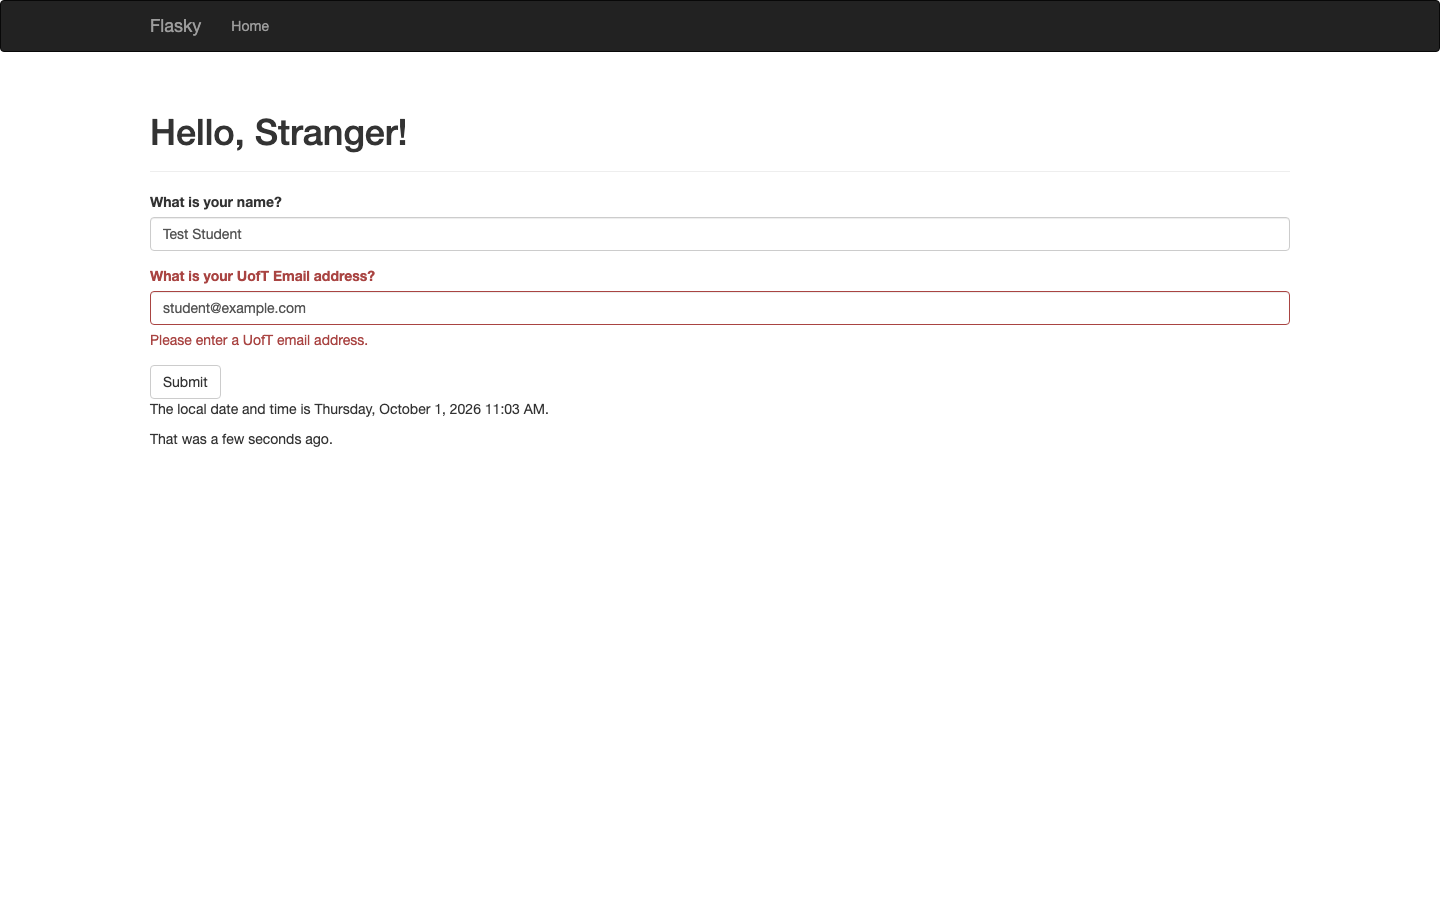
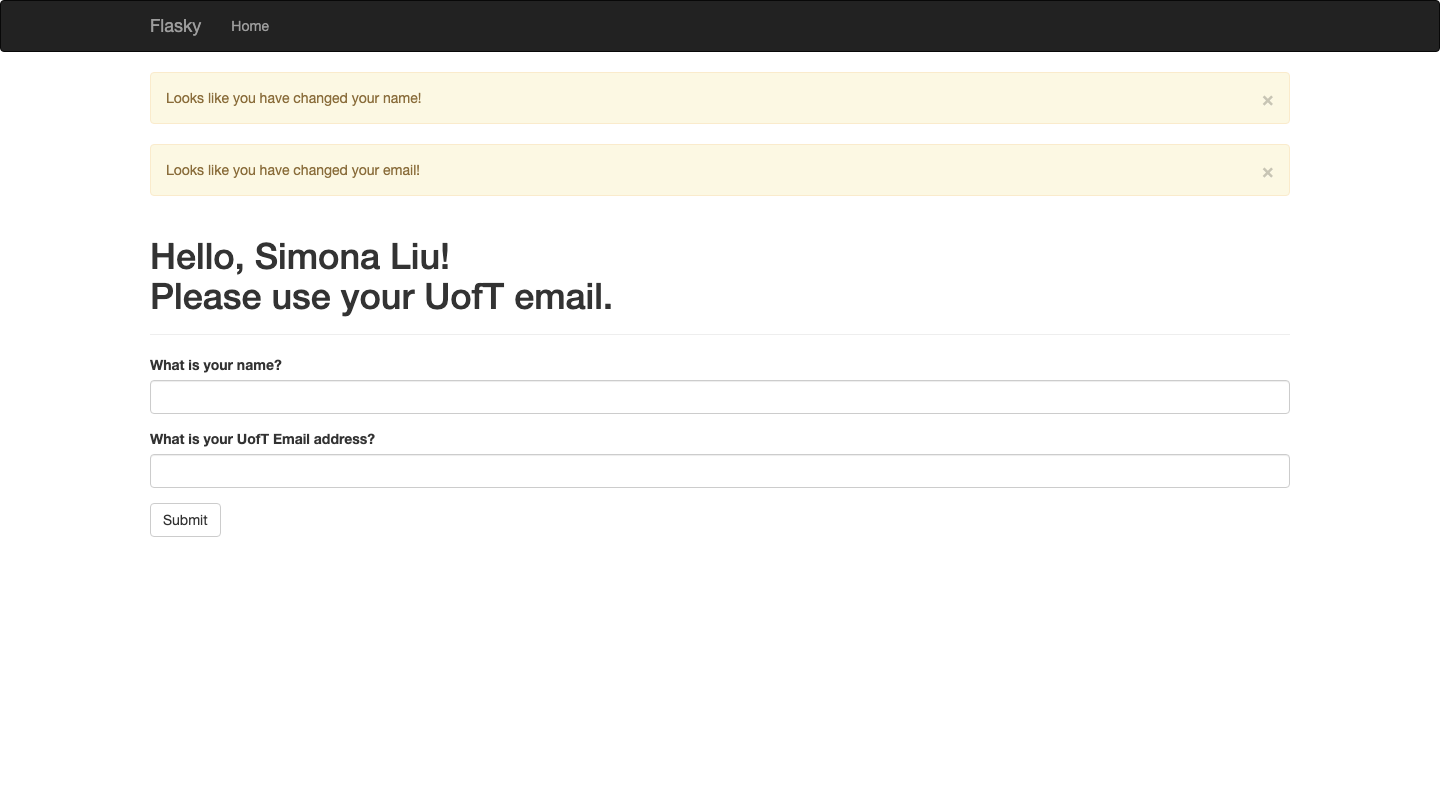
Activity 1.4: match expected change-alert behavior

Changed region(s): [[0.0, 0.0, 1.0, 0.5], [0.0938, 0.5312, 0.25, 0.5625], [0.0938, 0.625, 0.1562, 0.6562]]

diff --git a/templates/index.html b/templates/index.html
@@ -7,10 +7,14 @@
 <div class="page-header">
     <h1>
         Hello{% if name %}, {{ name }}{% else %}, Stranger{% endif %}!
-        {% if email %}<br>Your UofT email is {{ email }}{% endif %}
+        {% if email %}
+            {% if is_uoft_email %}
+                <br>Your UofT email is {{ email }}
+            {% else %}
+                <br>Please use your UofT email.
+            {% endif %}
+        {% endif %}
     </h1>
 </div>
 {{ wtf.quick_form(form) }}
-<p>The local date and time is {{ moment(current_time).format('LLLL') }}.</p>
-<p>That was {{ moment(current_time).fromNow(refresh=True) }}.</p>
 {% endblock %}

diff --git a/templates/user.html b/templates/user.html
@@ -6,6 +6,4 @@
 <div class="page-header">
     <h1>Hello {{ name }}!</h1>
 </div>
-<p>The local date and time is {{ moment(current_time).format('LLLL') }}.</p>
-<p>That was {{ moment(current_time).fromNow(refresh=True) }}.</p>
 {% endblock %}

diff --git a/templates/base.html b/templates/base.html
@@ -35,8 +35,3 @@
     {% block page_content %}{% endblock %}
 </div>
 {% endblock %}
-
-{% block scripts %}
-{{ super() }}
-{{ moment.include_moment() }}
-{% endblock %}

diff --git a/hello.py b/hello.py
@@ -1,16 +1,12 @@
-from datetime import datetime, timezone
-
 from flask import Flask, flash, redirect, render_template, session, url_for
 from flask_bootstrap import Bootstrap
-from flask_moment import Moment
 from flask_wtf import FlaskForm
 from wtforms import EmailField, StringField, SubmitField
-from wtforms.validators import DataRequired, Email, ValidationError
+from wtforms.validators import DataRequired, Email
 
 app = Flask(__name__)
 app.config["SECRET_KEY"] = "hard to guess string"
 bootstrap = Bootstrap(app)
-moment = Moment(app)
 
 
 class NameForm(FlaskForm):
@@ -20,38 +16,31 @@ class NameForm(FlaskForm):
     )
     submit = SubmitField("Submit")
 
-    def validate_email(self, field):
-        if "utoronto" not in field.data.lower():
-            raise ValidationError("Please enter a UofT email address.")
-
-
-def current_utc_time():
-    """Return the naive UTC datetime expected by Flask-Moment."""
-    return datetime.now(timezone.utc).replace(tzinfo=None)
-
 
 @app.route("/", methods=["GET", "POST"])
 def index():
     form = NameForm()
     if form.validate_on_submit():
         old_name = session.get("name")
+        old_email = session.get("email")
         if old_name is not None and old_name != form.name.data:
             flash("Looks like you have changed your name!")
+        if old_email is not None and old_email != form.email.data:
+            flash("Looks like you have changed your email!")
         session["name"] = form.name.data
         session["email"] = form.email.data
         return redirect(url_for("index"))
 
+    email = session.get("email")
     return render_template(
         "index.html",
         form=form,
         name=session.get("name"),
-        email=session.get("email"),
-        current_time=current_utc_time(),
+        email=email,
+        is_uoft_email=email is not None and "utoronto" in email.lower(),
     )
 
 
 @app.route("/user/<name>")
 def user(name):
-    return render_template(
-        "user.html", name=name, current_time=current_utc_time()
-    )
+    return render_template("user.html", name=name)
